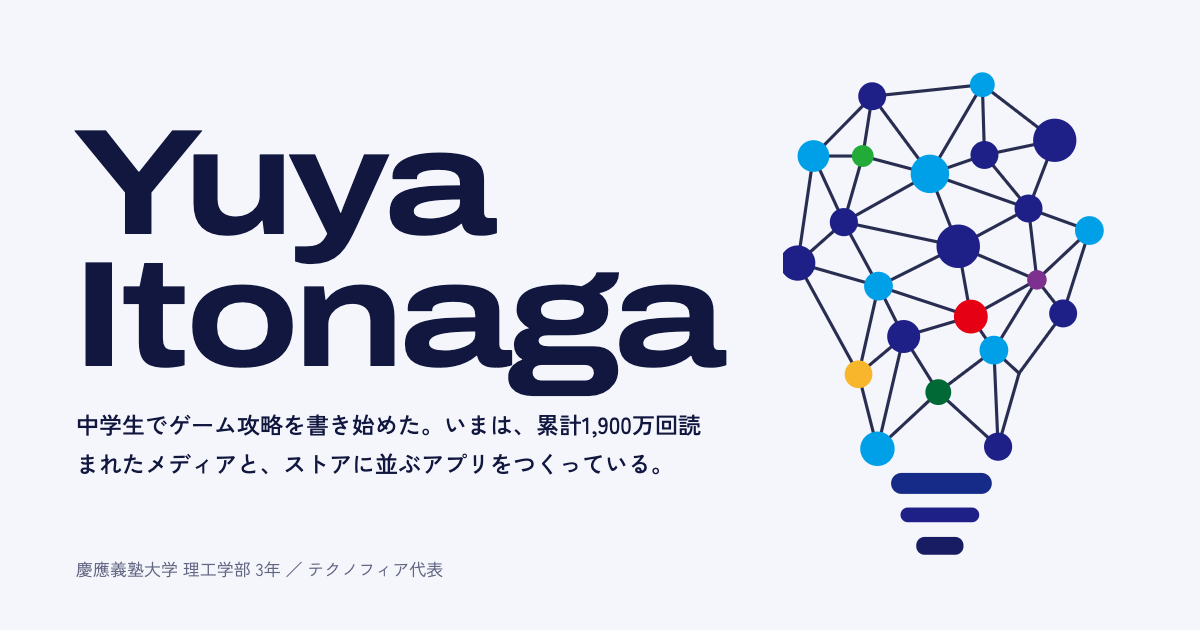
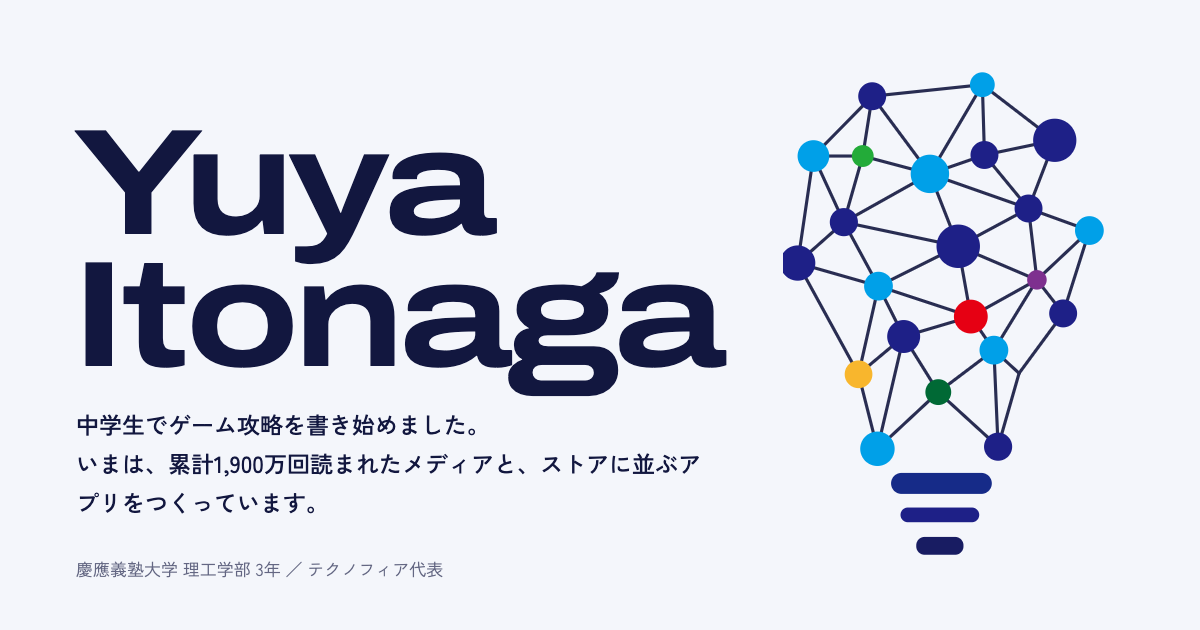
文言をです・ます調に、つくったものに ZeroShot を追加し Mimishare を「ほかにも」へ
- KPass（左右反転）の画面が本文の下の行に落ちていたのを、PC で同じ行に置くよう修正
- 「育てているメディア」を「運営しているメディア」に
- OG 画像を新しい一文で作り直し

Claude-Session: https://claude.ai/code/session_01PgFvpXXQo7dZ4JPitE1eVL

Changed region(s): [[0.0617, 0.7238, 0.5858, 0.754], [0.3083, 0.6333, 0.5858, 0.6937], [0.0617, 0.7841, 0.2775, 0.8143]]

diff --git a/index.html b/index.html
@@ -4,13 +4,13 @@
   <meta charset="UTF-8">
   <meta name="viewport" content="width=device-width, initial-scale=1.0, viewport-fit=cover">
   <title>Yuya Itonaga | Portfolio</title>
-  <meta name="description" content="Yuya Itonaga（テクノフィア代表）のポートフォリオ。慶應義塾大学理工学部3年。中学生で始めたゲーム攻略メディアは累計1,900万PV。BrawlTech、KPass などのアプリと WordPress プラグインをつくっている。">
+  <meta name="description" content="Yuya Itonaga（テクノフィア代表）のポートフォリオです。慶應義塾大学理工学部3年。中学生で始めたゲーム攻略メディアは累計1,900万PV。BrawlTech、KPass、ZeroShot などのアプリと WordPress プラグインをつくっています。">
   <link rel="canonical" href="https://technophere.com/portfolio/">
   <link rel="icon" type="image/png" sizes="64x64" href="assets/images/favicon-64.png">
   <link rel="apple-touch-icon" href="assets/images/apple-touch-icon.png">
   <meta property="og:type" content="website">
   <meta property="og:title" content="Yuya Itonaga | Portfolio">
-  <meta property="og:description" content="中学生でゲーム攻略を書き始めた。いまは、累計1,900万回読まれたメディアと、ストアに並ぶアプリをつくっている。">
+  <meta property="og:description" content="中学生でゲーム攻略を書き始めました。いまは、累計1,900万回読まれたメディアと、ストアに並ぶアプリをつくっています。">
   <meta property="og:url" content="https://technophere.com/portfolio/">
   <meta property="og:image" content="https://technophere.com/portfolio/assets/images/og-portfolio.png">
   <meta property="og:image:width" content="1200">
@@ -23,7 +23,7 @@
   <link rel="preconnect" href="https://fonts.googleapis.com">
   <link rel="preconnect" href="https://fonts.gstatic.com" crossorigin>
   <link href="https://fonts.googleapis.com/css2?family=Archivo:ital,wdth,wght@0,62..125,100..900&family=Zen+Kaku+Gothic+New:wght@400;500;700&display=swap" rel="stylesheet">
-  <link rel="stylesheet" href="css/style.css?v=20260925i">
+  <link rel="stylesheet" href="css/style.css?v=20260925j">
   <script>
     (function () {
       var stored = null; try { stored = localStorage.getItem('theme'); } catch (e) {}
@@ -84,7 +84,7 @@
         <div class="anchor anchor--bulb col-w" data-anchor="bulb" aria-hidden="true"></div>
         <div class="cover__text col-l">
           <h1 class="cover__name">Yuya<br>Itonaga</h1>
-          <p class="cover__statement" data-i18n="cover.statement">中学生でゲーム攻略を書き始めた。いまは、累計1,900万回読まれたメディアと、ストアに並ぶアプリをつくっている。</p>
+          <p class="cover__statement" data-i18n="cover.statement">中学生でゲーム攻略を書き始めました。いまは、累計1,900万回読まれたメディアと、ストアに並ぶアプリをつくっています。</p>
           <p class="cover__role" data-i18n="cover.role">慶應義塾大学 理工学部 3年 ／ テクノフィア代表</p>
         </div>
         <div class="cover__fallback col-r" id="coverFallback" hidden><svg class="bulb-svg" xmlns="http://www.w3.org/2000/svg" viewBox="107 13 306 467" aria-hidden="true" focusable="false"><g stroke="currentColor" stroke-width="3" stroke-linecap="round" opacity=".9"><line x1="297" y1="27" x2="192" y2="38"/><line x1="297" y1="27" x2="366" y2="80"/><line x1="297" y1="27" x2="299" y2="94"/><line x1="297" y1="27" x2="247" y2="112"/><line x1="192" y1="38" x2="183" y2="95"/><line x1="192" y1="38" x2="136" y2="95"/><line x1="192" y1="38" x2="247" y2="112"/><line x1="366" y1="80" x2="299" y2="94"/><line x1="366" y1="80" x2="341" y2="145"/><line x1="299" y1="94" x2="247" y2="112"/><line x1="299" y1="94" x2="341" y2="145"/><line x1="183" y1="95" x2="136" y2="95"/><line x1="183" y1="95" x2="247" y2="112"/><line x1="183" y1="95" x2="165" y2="158"/><line x1="136" y1="95" x2="165" y2="158"/><line x1="136" y1="95" x2="121" y2="197"/><line x1="247" y1="112" x2="341" y2="145"/><line x1="247" y1="112" x2="165" y2="158"/><line x1="247" y1="112" x2="274" y2="181"/><line x1="341" y1="145" x2="399" y2="166"/><line x1="341" y1="145" x2="274" y2="181"/><line x1="341" y1="145" x2="349" y2="213"/><line x1="165" y1="158" x2="274" y2="181"/><line x1="165" y1="158" x2="121" y2="197"/><line x1="165" y1="158" x2="198" y2="219"/><line x1="399" y1="166" x2="349" y2="213"/><line x1="399" y1="166" x2="374" y2="245"/><line x1="274" y1="181" x2="349" y2="213"/><line x1="274" y1="181" x2="198" y2="219"/><line x1="274" y1="181" x2="286" y2="248"/><line x1="121" y1="197" x2="198" y2="219"/><line x1="121" y1="197" x2="179" y2="303"/><line x1="349" y1="213" x2="374" y2="245"/><line x1="349" y1="213" x2="286" y2="248"/><line x1="349" y1="213" x2="308" y2="280"/><line x1="198" y1="219" x2="286" y2="248"/><line x1="198" y1="219" x2="222" y2="267"/><line x1="198" y1="219" x2="179" y2="303"/><line x1="286" y1="248" x2="222" y2="267"/><line x1="286" y1="248" x2="308" y2="280"/><line x1="222" y1="267" x2="179" y2="303"/><line x1="222" y1="267" x2="255" y2="320"/><line x1="222" y1="267" x2="197" y2="374"/><line x1="308" y1="280" x2="255" y2="320"/><line x1="308" y1="280" x2="312" y2="372"/><line x1="374" y1="245" x2="332" y2="302"/><line x1="308" y1="280" x2="332" y2="302"/><line x1="332" y1="302" x2="312" y2="372"/><line x1="179" y1="303" x2="197" y2="374"/><line x1="255" y1="320" x2="312" y2="372"/><line x1="255" y1="320" x2="197" y2="374"/></g><circle cx="297" cy="27" r="11.8" fill="#00a0e8"/><circle cx="192" cy="38" r="13.3" fill="#1e2087"/><circle cx="366" cy="80" r="20.6" fill="#1e2087"/><circle cx="299" cy="94" r="13.3" fill="#1e2087"/><circle cx="183" cy="95" r="10.4" fill="#23ab39"/><circle cx="136" cy="95" r="15.1" fill="#00a0e8"/><circle cx="247" cy="112" r="18.3" fill="#00a0e8"/><circle cx="341" cy="145" r="13.3" fill="#1e2087"/><circle cx="165" cy="158" r="13.4" fill="#1e2087"/><circle cx="399" cy="166" r="13.7" fill="#00a0e8"/><circle cx="274" cy="181" r="20.7" fill="#1e2087"/><circle cx="121" cy="197" r="16.8" fill="#1e2087"/><circle cx="349" cy="213" r="9.3" fill="#7e308f"/><circle cx="198" cy="219" r="13.7" fill="#00a0e8"/><circle cx="374" cy="245" r="13.3" fill="#1e2087"/><circle cx="286" cy="248" r="16.1" fill="#e60013"/><circle cx="222" cy="267" r="15.7" fill="#1e2087"/><circle cx="308" cy="280" r="13.7" fill="#00a0e8"/><circle cx="179" cy="303" r="13.2" fill="#f8b62d"/><circle cx="255" cy="320" r="12.3" fill="#006935"/><circle cx="312" cy="372" r="13.4" fill="#1e2087"/><circle cx="197" cy="374" r="16.4" fill="#00a0e8"/><rect x="210" y="397" width="96" height="20" rx="10" fill="#162b88"/><rect x="219" y="430" width="75" height="14" rx="7" fill="#1e2087"/><rect x="234" y="458" width="45" height="17" rx="8" fill="#181c62"/></svg></div>
@@ -97,8 +97,8 @@
       <div class="grid">
         <div class="col-r story__intro">
           <h2 data-i18n="story.title">はじまり</h2>
-          <p data-i18n="story.p1">最初の読者は、同じゲームで困っている誰かだった。2021年、Gamerch で攻略サイトの運営を始め、翌年には攻略大百科の専属ライターとして100本以上の記事を書いた。</p>
-          <p data-i18n="story.p2">2023年8月、高校3年でテクノフィアを立ち上げた。ゲーム攻略メディアを軸に、SEOと解析で読者を増やし、いまは自分のアプリとプラグインもつくっている。設計から実装、ストア公開、リリース後の改善まで、全部を自分の手でやる。AIは開発の中心にあって、最後にコードを読むのは自分の目だ。</p>
+          <p data-i18n="story.p1">最初の読者は、同じゲームで困っている誰か。2021年に Gamerch で攻略サイトの運営を始め、翌年には攻略大百科の専属ライターとして100本以上の記事を書きました。</p>
+          <p data-i18n="story.p2">2023年8月、高校3年でテクノフィアを立ち上げました。ゲーム攻略メディアを軸に、SEOと解析で読者を増やし、いまは自分のアプリやプラグインもつくっています。設計から実装、ストア公開、リリース後の改善まで、すべて自分の手で。AIは開発の中心にありますが、最後にコードを読むのは自分の目です。</p>
           <figure class="story__photo">
             <img src="assets/images/profile-yuya.webp" alt="矢上キャンパスのラウンジに座る Yuya Itonaga" width="1200" height="675" loading="lazy" data-i18n-alt="story.photoAlt">
           </figure>
@@ -153,7 +153,7 @@
               <dd><span class="stat__num">100,669</span><small data-i18n="numbers.clicksNote">game.technophere.com・表示 309万回・平均掲載順位 6.4</small></dd>
             </div>
           </dl>
-          <p class="note" data-i18n="numbers.note">2026年9月24日時点。Google Analytics と Search Console の値。</p>
+          <p class="note" data-i18n="numbers.note">2026年9月24日時点。Google Analytics と Search Console の値です。</p>
         </div>
         <div class="col-r numbers__fallback" id="numbersFallback" hidden></div>
       </div>
@@ -164,7 +164,7 @@
       <div class="grid">
         <div class="col-l">
           <h2 data-i18n="works.title">つくったもの</h2>
-          <p class="lead" data-i18n="works.lead">ストアで配信しているアプリと、公開しているサービス・プラグイン。</p>
+          <p class="lead" data-i18n="works.lead">ストアで配信しているアプリと、公開しているサービス・プラグインです。</p>
         </div>
       </div>
 
@@ -172,7 +172,7 @@
         <div class="work__text col-l">
           <h3 class="work__name">BrawlTech</h3>
           <p class="work__what" data-i18n="works.brawltech.what">ブロスタの戦略サポートアプリ</p>
-          <p data-i18n="works.brawltech.desc">Supercell 公式 API と外部 API からリアルタイムの戦績とキャラ統計を取り、攻略情報とあわせて見せる。Flutter で iOS と Android に同時対応し、2025年8月に公開した。</p>
+          <p data-i18n="works.brawltech.desc">Supercell 公式 API と外部 API からリアルタイムの戦績とキャラ統計を取得し、攻略情報とあわせて表示します。Flutter で iOS と Android に同時対応し、2025年8月に公開しました。</p>
           <ul class="work__stack" aria-label="使った技術"><li>Flutter</li><li>Firebase</li><li>Supercell API</li></ul>
           <div class="work__stores">
             <a href="https://apps.apple.com/jp/app/brawltech-%E3%83%96%E3%83%AD%E3%83%86%E3%82%AF/id6749449425" target="_blank" rel="noopener noreferrer" aria-label="App Store で BrawlTech を見る"><img src="assets/images/app-store-badge.svg" alt="Download on the App Store" width="120" height="40"></a>
@@ -189,7 +189,7 @@
         <div class="work__text col-r">
           <h3 class="work__name">KPass</h3>
           <p class="work__what" data-i18n="works.kpass.what">慶應生の授業と課題をひとつにするアプリ</p>
-          <p data-i18n="works.kpass.desc">大学の学習支援システム K-LMS（Canvas）の API から授業・課題・時間割を取り込み、アプリの中で整理して見せる。ログインを数日保持し、課題の締切をひと目で確認できる。SwiftUI で 2025年12月に公開。App Store の評価は 4.4（173件）。</p>
+          <p data-i18n="works.kpass.desc">大学の学習支援システム K-LMS（Canvas）の API から授業・課題・時間割を取り込み、アプリの中で整理して表示します。ログインを数日保持し、課題の締切もひと目で確認できます。SwiftUI で開発し、2025年12月に公開。App Store の評価は 4.4（173件）です。</p>
           <ul class="work__stack" aria-label="使った技術"><li>SwiftUI</li><li>Kotlin</li><li>Firebase</li><li>Canvas API</li></ul>
           <div class="work__stores">
             <a href="https://apps.apple.com/jp/app/kpass-%E3%82%B1%E3%83%BC%E3%83%91%E3%82%B9-klms%E9%80%A3%E6%90%BA%E3%81%AE%E6%8E%88%E6%A5%AD-%E8%AA%B2%E9%A1%8C-%E6%99%82%E9%96%93%E5%89%B2/id6754703817" target="_blank" rel="noopener noreferrer" aria-label="App Store で KPass を見る"><img src="assets/images/app-store-badge.svg" alt="Download on the App Store" width="120" height="40"></a>
@@ -201,16 +201,19 @@
         </div>
       </article>
 
-      <article class="work work--web grid">
+      <article class="work work--app grid">
         <div class="work__text col-l">
-          <h3 class="work__name">Mimishare</h3>
-          <p class="work__what" data-i18n="works.mimishare.what">ディズニーのカチューシャを、その日だけ借りられるサービス</p>
-          <p data-i18n="works.mimishare.desc">買うより安く、来園の1日だけ借りる。デポジット制で予約し、QRコードで貸出と返却。Next.js と Stripe で、カタログから決済まで一人で組んだ。</p>
-          <ul class="work__stack" aria-label="使った技術"><li>Next.js</li><li>Tailwind CSS</li><li>Firebase</li><li>Stripe</li></ul>
-          <p class="work__links"><a href="https://mimishare.technophere.com/" target="_blank" rel="noopener noreferrer" data-i18n="works.mimishare.link">mimishare.technophere.com を開く</a></p>
+          <h3 class="work__name">ZeroShot</h3>
+          <p class="work__what" data-i18n="works.zeroshot.what">縦と横を同時に撮れる、失敗しないカメラ</p>
+          <p data-i18n="works.zeroshot.desc">シャッター1回で、縦と横の構図を同時に保存。前後のフレームからブレや目つぶりの少ない1枚を端末の中で選び、写真ライブラリへ自動で保存します。寄りや別レンズの候補も残るので、撮った後に選び直せます。SwiftUI と AVFoundation で開発し、2026年9月に公開しました。</p>
+          <ul class="work__stack" aria-label="使った技術"><li>SwiftUI</li><li>AVFoundation</li><li>Vision</li><li>Core Image</li></ul>
+          <div class="work__stores">
+            <a href="https://apps.apple.com/jp/app/zeroshot-%E5%A4%B1%E6%95%97%E3%81%97%E3%81%AA%E3%81%84%E3%82%AB%E3%83%A1%E3%83%A9/id6814582654" target="_blank" rel="noopener noreferrer" aria-label="App Store で ZeroShot を見る"><img src="assets/images/app-store-badge.svg" alt="Download on the App Store" width="120" height="40"></a>
+          </div>
         </div>
-        <div class="col-r">
-          <figure class="browser"><img src="assets/images/media/mimishare.webp" alt="Mimishare のトップページ" width="960" height="600" loading="lazy"></figure>
+        <div class="work__screens col-r">
+          <figure class="phone"><img src="assets/images/works/zeroshot-00.webp" alt="ZeroShot のカメラ画面。縦と横を同時に撮影している" width="640" height="1385" loading="lazy" data-i18n-alt="works.zeroshot.alt0"></figure>
+          <figure class="phone"><img src="assets/images/works/zeroshot-01.webp" alt="ZeroShot の候補画面。自動で選んだ BEST の1枚" width="640" height="1385" loading="lazy" data-i18n-alt="works.zeroshot.alt1"></figure>
         </div>
       </article>
 
@@ -219,8 +222,13 @@
       </div>
       <ul class="rows grid">
         <li class="row col-w">
+          <h3 class="row__name">Mimishare</h3>
+          <p data-i18n="works.mimishare.desc">ディズニーのカチューシャを、来園の1日だけ借りられるサービスです。デポジット制で予約し、QRコードで貸出と返却。Next.js と Stripe で、カタログから決済まで一人で組みました。</p>
+          <p class="row__links"><a href="https://mimishare.technophere.com/" target="_blank" rel="noopener noreferrer">mimishare.technophere.com</a></p>
+        </li>
+        <li class="row col-w">
           <h3 class="row__name">App Link Generator</h3>
-          <p data-i18n="works.alg.desc">App Store と Google Play のリンクをブロックエディタから生成する WordPress プラグイン。WordPress.org の公式ディレクトリで公開している。</p>
+          <p data-i18n="works.alg.desc">App Store と Google Play のリンクをブロックエディタから生成する WordPress プラグインです。WordPress.org の公式ディレクトリで公開しています。</p>
           <p class="row__links">
             <a href="https://wordpress.org/plugins/app-link-generator/" target="_blank" rel="noopener noreferrer">WordPress.org</a>
             <a href="https://github.com/iyuya1808/App-Link-Generator" target="_blank" rel="noopener noreferrer">GitHub</a>
@@ -228,23 +236,23 @@
         </li>
         <li class="row col-w">
           <h3 class="row__name">Push from GitHub</h3>
-          <p data-i18n="works.pfg.desc">GitHub のリポジトリと連携した自作テーマ・プラグインを、管理画面からワンクリックで本番に反映する WordPress プラグイン。</p>
+          <p data-i18n="works.pfg.desc">GitHub のリポジトリと連携した自作テーマ・プラグインを、管理画面からワンクリックで本番に反映する WordPress プラグインです。</p>
           <p class="row__links"><a href="https://github.com/iyuya1808/Push-from-GitHub" target="_blank" rel="noopener noreferrer">GitHub</a></p>
         </li>
         <li class="row col-w">
           <h3 class="row__name">Lemon AI</h3>
-          <p data-i18n="works.lemon.desc">慶應のエンジニアサークル Lemon 専用の AI プラットフォーム。24時間答える AI メンターとアイデアガチャ。チーム開発でフロントエンドと UI を担当した。</p>
+          <p data-i18n="works.lemon.desc">慶應のエンジニアサークル Lemon 専用の AI プラットフォーム。24時間答える AI メンターとアイデアガチャを備えています。チーム開発で、フロントエンドと UI を担当しました。</p>
           <p class="row__links"><a href="https://app.lemon-tech.jp/" target="_blank" rel="noopener noreferrer">app.lemon-tech.jp</a></p>
         </li>
       </ul>
     </section>
 
-    <!-- 育てているメディア -->
+    <!-- 運営しているメディア -->
     <section class="chapter media" id="media" data-formation="field" data-side="0">
       <div class="grid">
         <div class="col-l">
-          <h2 data-i18n="media.title">育てているメディア</h2>
-          <p class="lead" data-i18n="media.lead">ゲームごとに1つずつ WordPress を立て、公式 API やゲームデータから図鑑とランキングを自動更新する攻略サイト群。テクノフィアの主力。</p>
+          <h2 data-i18n="media.title">運営しているメディア</h2>
+          <p class="lead" data-i18n="media.lead">ゲームごとに1つずつ WordPress を立て、公式 API やゲームデータから図鑑とランキングを自動更新している攻略サイト群です。テクノフィアの主力事業。</p>
           <p class="work__links"><a href="https://game.technophere.com/" target="_blank" rel="noopener noreferrer" data-i18n="media.hubLink">game.technophere.com を開く</a></p>
         </div>
         <div class="col-r">
@@ -269,11 +277,11 @@
       <div class="grid">
         <div class="tools__text col-l">
           <h2 data-i18n="tools.title">使う道具</h2>
-          <p class="lead" data-i18n="tools.p1">AI を開発の中心に置く。Claude Code、Cursor、Antigravity を並べて使い、プロジェクトごとに向くモデルを選ぶ。速く作って、コードは自分の目で読む。</p>
+          <p class="lead" data-i18n="tools.p1">AI が開発の中心です。Claude Code、Cursor、Antigravity を並べて使い、プロジェクトごとに向いているモデルを選びます。速くつくり、コードは自分の目で確かめる。それが基本の進め方です。</p>
         </div>
         <div class="anchor anchor--graph col-r" data-anchor="graph" aria-hidden="true"></div>
         <div class="tools__more col-l">
-          <p data-i18n="tools.p2">アプリは Swift と Flutter、Web は WordPress と Next.js。数字は Search Console と Analytics で毎日見る。</p>
+          <p data-i18n="tools.p2">アプリは Swift と Flutter、Web は WordPress と Next.js。数字は Search Console と Analytics で毎日確認しています。</p>
         </div>
         <dl class="tools__list col-l">
             <div><dt>AI</dt><dd>Claude Code, Cursor, Antigravity, Gemini CLI, GitHub Copilot</dd></div>
@@ -292,7 +300,7 @@
         <div class="anchor anchor--bulb col-w" data-anchor="lit" aria-hidden="true"></div>
         <div class="col-l">
           <h2 data-i18n="contact.title">次のアイデアへ</h2>
-          <p class="lead" data-i18n="contact.lead">面白いことを一緒にやりたい人へ。仕事の相談も、ただの雑談も、メールか X でどうぞ。</p>
+          <p class="lead" data-i18n="contact.lead">面白いことを一緒にやりたい方へ。仕事の相談も、ただの雑談も、メールか X でお気軽にどうぞ。</p>
           <ul class="contact__list">
             <li><a href="mailto:contact@technophere.com">contact@technophere.com</a></li>
             <li><a href="https://x.com/technophere" target="_blank" rel="noopener noreferrer">x.com/technophere</a></li>
@@ -316,7 +324,7 @@
   <script src="assets/vendor/gsap.min.js"></script>
   <script src="assets/vendor/ScrollTrigger.min.js"></script>
   <script src="assets/vendor/lenis.min.js"></script>
-  <script src="js/i18n.js?v=20260925i"></script>
-  <script type="module" src="js/main.js?v=20260925i"></script>
+  <script src="js/i18n.js?v=20260925j"></script>
+  <script type="module" src="js/main.js?v=20260925j"></script>
 </body>
 </html>

diff --git a/.github/og-source.html b/.github/og-source.html
@@ -8,7 +8,7 @@ body{margin:0;width:1200px;height:630px;background:#F4F6FB;color:#12173F;font-fa
 .mark{position:absolute;right:96px;top:70px;height:490px;width:auto;color:#12173F}
 </style></head><body>
 <div class="name">Yuya<br>Itonaga</div>
-<div class="st">中学生でゲーム攻略を書き始めた。いまは、累計1,900万回読まれたメディアと、ストアに並ぶアプリをつくっている。</div>
+<div class="st">中学生でゲーム攻略を書き始めました。<br>いまは、累計1,900万回読まれたメディアと、ストアに並ぶアプリをつくっています。</div>
 <div class="role">慶應義塾大学 理工学部 3年 ／ テクノフィア代表</div>
 <svg class="mark" xmlns="http://www.w3.org/2000/svg" viewBox="107 13 306 467" aria-hidden="true" focusable="false"><g stroke="currentColor" stroke-width="3" stroke-linecap="round" opacity=".9"><line x1="297" y1="27" x2="192" y2="38"/><line x1="297" y1="27" x2="366" y2="80"/><line x1="297" y1="27" x2="299" y2="94"/><line x1="297" y1="27" x2="247" y2="112"/><line x1="192" y1="38" x2="183" y2="95"/><line x1="192" y1="38" x2="136" y2="95"/><line x1="192" y1="38" x2="247" y2="112"/><line x1="366" y1="80" x2="299" y2="94"/><line x1="366" y1="80" x2="341" y2="145"/><line x1="299" y1="94" x2="247" y2="112"/><line x1="299" y1="94" x2="341" y2="145"/><line x1="183" y1="95" x2="136" y2="95"/><line x1="183" y1="95" x2="247" y2="112"/><line x1="183" y1="95" x2="165" y2="158"/><line x1="136" y1="95" x2="165" y2="158"/><line x1="136" y1="95" x2="121" y2="197"/><line x1="247" y1="112" x2="341" y2="145"/><line x1="247" y1="112" x2="165" y2="158"/><line x1="247" y1="112" x2="274" y2="181"/><line x1="341" y1="145" x2="399" y2="166"/><line x1="341" y1="145" x2="274" y2="181"/><line x1="341" y1="145" x2="349" y2="213"/><line x1="165" y1="158" x2="274" y2="181"/><line x1="165" y1="158" x2="121" y2="197"/><line x1="165" y1="158" x2="198" y2="219"/><line x1="399" y1="166" x2="349" y2="213"/><line x1="399" y1="166" x2="374" y2="245"/><line x1="274" y1="181" x2="349" y2="213"/><line x1="274" y1="181" x2="198" y2="219"/><line x1="274" y1="181" x2="286" y2="248"/><line x1="121" y1="197" x2="198" y2="219"/><line x1="121" y1="197" x2="179" y2="303"/><line x1="349" y1="213" x2="374" y2="245"/><line x1="349" y1="213" x2="286" y2="248"/><line x1="349" y1="213" x2="308" y2="280"/><line x1="198" y1="219" x2="286" y2="248"/><line x1="198" y1="219" x2="222" y2="267"/><line x1="198" y1="219" x2="179" y2="303"/><line x1="286" y1="248" x2="222" y2="267"/><line x1="286" y1="248" x2="308" y2="280"/><line x1="222" y1="267" x2="179" y2="303"/><line x1="222" y1="267" x2="255" y2="320"/><line x1="222" y1="267" x2="197" y2="374"/><line x1="308" y1="280" x2="255" y2="320"/><line x1="308" y1="280" x2="312" y2="372"/><line x1="374" y1="245" x2="332" y2="302"/><line x1="308" y1="280" x2="332" y2="302"/><line x1="332" y1="302" x2="312" y2="372"/><line x1="179" y1="303" x2="197" y2="374"/><line x1="255" y1="320" x2="312" y2="372"/><line x1="255" y1="320" x2="197" y2="374"/></g><circle cx="297" cy="27" r="11.8" fill="#00a0e8"/><circle cx="192" cy="38" r="13.3" fill="#1e2087"/><circle cx="366" cy="80" r="20.6" fill="#1e2087"/><circle cx="299" cy="94" r="13.3" fill="#1e2087"/><circle cx="183" cy="95" r="10.4" fill="#23ab39"/><circle cx="136" cy="95" r="15.1" fill="#00a0e8"/><circle cx="247" cy="112" r="18.3" fill="#00a0e8"/><circle cx="341" cy="145" r="13.3" fill="#1e2087"/><circle cx="165" cy="158" r="13.4" fill="#1e2087"/><circle cx="399" cy="166" r="13.7" fill="#00a0e8"/><circle cx="274" cy="181" r="20.7" fill="#1e2087"/><circle cx="121" cy="197" r="16.8" fill="#1e2087"/><circle cx="349" cy="213" r="9.3" fill="#7e308f"/><circle cx="198" cy="219" r="13.7" fill="#00a0e8"/><circle cx="374" cy="245" r="13.3" fill="#1e2087"/><circle cx="286" cy="248" r="16.1" fill="#e60013"/><circle cx="222" cy="267" r="15.7" fill="#1e2087"/><circle cx="308" cy="280" r="13.7" fill="#00a0e8"/><circle cx="179" cy="303" r="13.2" fill="#f8b62d"/><circle cx="255" cy="320" r="12.3" fill="#006935"/><circle cx="312" cy="372" r="13.4" fill="#1e2087"/><circle cx="197" cy="374" r="16.4" fill="#00a0e8"/><rect x="210" y="397" width="96" height="20" rx="10" fill="#162b88"/><rect x="219" y="430" width="75" height="14" rx="7" fill="#1e2087"/><rect x="234" y="458" width="45" height="17" rx="8" fill="#181c62"/></svg>
 </body></html>

diff --git a/js/i18n.js b/js/i18n.js
@@ -4,7 +4,7 @@
    ============================================================ */
 (function () {
   var EN = {
-    meta: { description: 'Portfolio of Yuya Itonaga, third-year engineering student at Keio University and head of Technophere. Started writing game guides in junior high; the media he runs has passed 19 million page views. Builds apps like BrawlTech and KPass, and WordPress plugins.' },
+    meta: { description: 'Portfolio of Yuya Itonaga, third-year engineering student at Keio University and head of Technophere. Started writing game guides in junior high; the media he runs has passed 19 million page views. Builds apps like BrawlTech, KPass and ZeroShot, and WordPress plugins.' },
     nav: { top: 'Back to top', chapters: 'Chapters', theme: 'Dark mode', menu: 'Menu', story: 'Beginnings', numbers: 'Numbers', works: 'Work', media: 'Media', tools: 'Tools', contact: 'Contact' },
     cover: {
       statement: 'I started writing game guides in junior high. Today I run media read 19 million times and build apps that live in the App Store.',
@@ -47,14 +47,15 @@
       title: 'Work', lead: 'Apps in the stores, and services and plugins I have published.',
       brawltech: { what: 'A strategy companion for Brawl Stars', desc: "Pulls live match records and brawler stats from Supercell's official API and third-party APIs, and pairs them with guides. Built in Flutter for iOS and Android at once, released in August 2025." },
       kpass: { what: 'Classes and assignments in one place for Keio students', desc: "Reads courses, assignments and timetables from the university's K-LMS (Canvas) API and lays them out inside the app. Keeps you logged in for days and shows deadlines at a glance. Built in SwiftUI, released in December 2025. Rated 4.4 on the App Store (173 ratings)." },
-      mimishare: { what: 'Rent a Disney headband for just one day', desc: 'Cheaper than buying one for a single visit. Reserve with a deposit, borrow and return by QR code. Built alone in Next.js and Stripe, from catalog to checkout.', link: 'Open mimishare.technophere.com' },
+      zeroshot: { what: 'A camera that shoots portrait and landscape at once', desc: 'One tap of the shutter saves both a portrait and a landscape frame. From the frames around the shot, it picks the one with the least blur and no closed eyes, on the device, and saves it to your library. Tighter crops and other lenses are kept too, so you can choose again after the fact. Built in SwiftUI and AVFoundation, released in September 2026.', alt0: 'ZeroShot camera screen, capturing portrait and landscape at once', alt1: 'ZeroShot candidates screen, with the best shot picked automatically' },
+      mimishare: { desc: 'Rent a Disney headband for just the day of your visit. Reserve with a deposit, borrow and return by QR code. Built alone in Next.js and Stripe, from catalog to checkout.' },
       more: 'More',
       alg: { desc: 'A WordPress plugin that generates App Store and Google Play links from the block editor. Published in the official WordPress.org directory.' },
       pfg: { desc: 'A WordPress plugin that deploys your own themes and plugins from a linked GitHub repository with one click in the admin.' },
       lemon: { desc: 'An AI platform for Lemon, the engineering club at Keio. A mentor that answers around the clock and an idea gacha. I built the frontend and UI in a team.' }
     },
     media: {
-      title: 'Media I grow', lead: 'One WordPress site per game, with encyclopedias and rankings updated automatically from official APIs and game data. The core of Technophere.',
+      title: 'Media I run', lead: 'One WordPress site per game, with encyclopedias and rankings updated automatically from official APIs and game data. The core of Technophere.',
       hubLink: 'Open game.technophere.com',
       labs: {
         brawlstars: 'Brawler tier list and win rates by map and mode', tsumtsum: 'Gacha news and Tsum rankings', msfs: 'Aircraft encyclopedia, add-ons and airport data',

diff --git a/css/style.css b/css/style.css
@@ -198,6 +198,8 @@ html.no-scene .numbers__fallback[hidden] { display: block; }
 }
 .phone + .phone { margin-top: 56px; }
 .phone img { width: 100%; height: 100%; object-fit: cover; }
+/* 左右を入れ替えた作品は、画面（col-l）を本文と同じ行に置く。指定しないと自動配置で次の行に落ちる */
+@media (min-width: 760px) { .work--flip > .work__text, .work--flip > .work__screens { grid-row: 1; } }
 .browser { border-radius: var(--r-m); overflow: hidden; border: 1px solid var(--line); background: var(--line-2); aspect-ratio: 16 / 10; position: relative; }
 .browser::before { content: ""; position: absolute; inset: 0 0 auto 0; height: 22px; border-bottom: 1px solid var(--line); background: var(--paper); z-index: 1; }
 .browser img { width: 100%; height: 100%; object-fit: cover; object-position: top; padding-top: 22px; }

diff --git a/CONTENT.md b/CONTENT.md
@@ -10,13 +10,13 @@
 | story | はじまり | 経歴の道（年ごとに点が灯る） |
 | numbers | 数字 | 累計PVの面グラフ（月次実データの積み上げ。右肩上がり） |
 | works | つくったもの | 散らばった場 |
-| media | 育てているメディア | 散らばった場 |
+| media | 運営しているメディア | 散らばった場 |
 | tools | 使う道具 | スキルの力学グラフ（ラベル付き） |
 | contact | 次のアイデアへ | 電球が灯る |
 
 ## 表紙
 
-- 一文: 中学生でゲーム攻略を書き始めた。いまは、累計1,900万回読まれたメディアと、ストアに並ぶアプリをつくっている。
+- 一文: 中学生でゲーム攻略を書き始めました。いまは、累計1,900万回読まれたメディアと、ストアに並ぶアプリをつくっています。
 - 肩書: 慶應義塾大学 理工学部 3年 ／ テクノフィア代表
 
 ## 数字（2026-09-24 時点）
@@ -32,11 +32,14 @@
 
 ## つくったもの
 
-BrawlTech（App Store / Google Play）、KPass（App Store、評価 4.4・173件は取得時点）、Mimishare、
-App Link Generator（WordPress.org / GitHub）、Push from GitHub（GitHub）、Lemon AI。
+文体はです・ます調。見出し・一覧・短い補足は体言止めを混ぜる。
+
+
+大きく見せる3件: BrawlTech（App Store / Google Play）、KPass（App Store、評価 4.4・173件は取得時点）、ZeroShot（App Store、2026年9月公開）。
+「ほかにも」: Mimishare、App Link Generator（WordPress.org / GitHub）、Push from GitHub（GitHub）、Lemon AI。
 App Store のスクリーンショットは iTunes Lookup API の `screenshotUrls` から取得し `assets/images/works/` に保存。
 
-## 育てているメディア
+## 運営しているメディア
 
 攻略Lab（ブロスタ・ツムツム・MSFS・eFootball・クラロワ・Cities: Skylines・NTE）、テクログ、App Gallery。
 サムネイルは各サイトの実画面を Playwright で撮影し、上部 1280×560 を切り出して `assets/images/media/` に保存。
